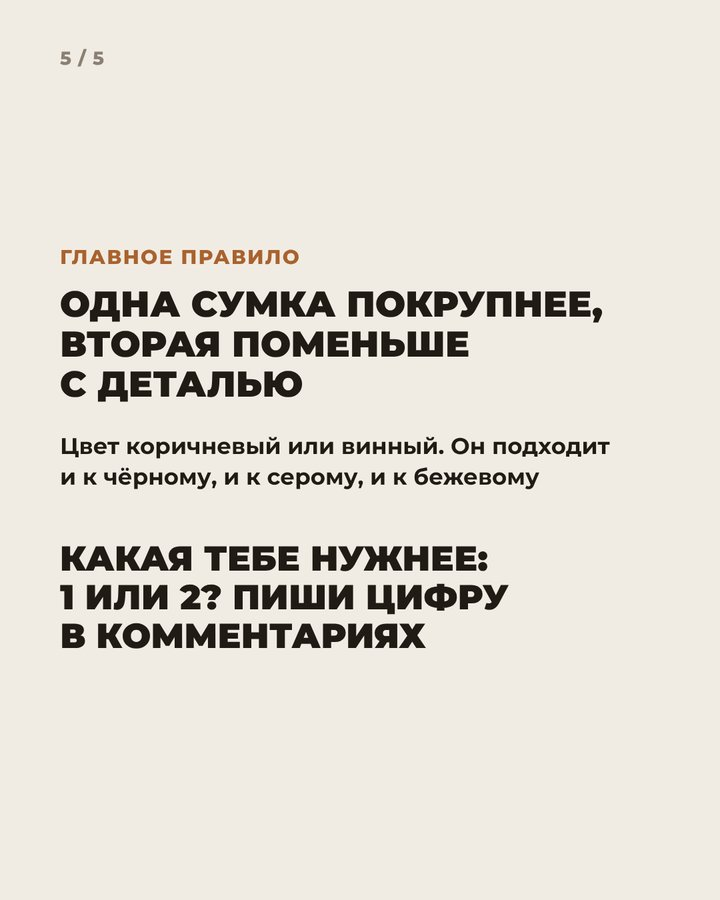
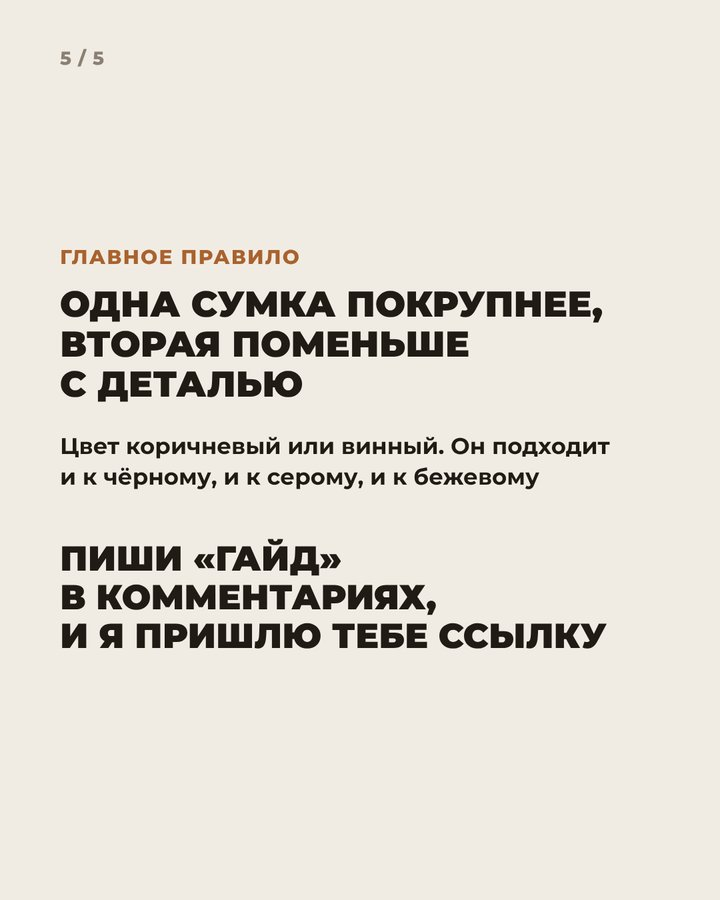
Carousel 11.11 bags: GUIDE call to action
Claude-Session: https://claude.ai/code/session_01WfDMDWpCzhvXCNpiNoLDnf

Changed region(s): [[0.0611, 0.5911, 0.8556, 0.7467]]

diff --git a/karusel-dve-sumki/index.html b/karusel-dve-sumki/index.html
@@ -89,7 +89,7 @@ header{display:grid;gap:10px}
         <img src="s/02.jpg" alt="Сумка 1: покрупнее — Befree, Love Republic, Sela">
         <img src="s/03.jpg" alt="Сумка 2: поменьше и с деталью — LIME, LIME, Love Republic">
         <img src="s/04.jpg" alt="С сапогами, с ярким жакетом, с туфлями">
-        <img src="s/05.jpg" alt="Правило и вопрос «Какая тебе нужнее: 1 или 2?»">
+        <img src="s/05.jpg" alt="Правило и призыв «Пиши ГАЙД»">
       </div>
       <button class="nav prev" id="prev" aria-label="Предыдущий слайд">‹</button>
       <button class="nav next" id="next" aria-label="Следующий слайд">›</button>
@@ -103,7 +103,7 @@ header{display:grid;gap:10px}
       <p>Цвет коричневый или винный. Он подходит и к чёрному, и к серому, и к бежевому, поэтому сумки работают почти с любым образом.</p>
       <p>Сумка 1, покрупнее:<br>Тоут с замком — Befree, 4 599 ₽<br>Большая хобо из замши — Love Republic, 10 999 ₽<br>Сумка с замшевой фактурой — Sela, 4 599 ₽</p>
       <p>Сумка 2, поменьше с деталью:<br>Полумесяц с металлической ручкой — LIME, 7 999 ₽<br>Мини-полумесяц из замши — LIME, 12 999 ₽<br>Сумка-цилиндр с кантом — Love Republic, 3 899 ₽</p>
-      <p>Какая тебе нужнее: 1 или 2? Пиши цифру в комментариях.</p>
+      <p>Пиши «ГАЙД» в комментариях, и я пришлю тебе ссылку 🤍</p>
       <p>Фото: сайты магазинов. Цены на 9.11.</p>
       <p>#сумка #базовыйгардероб #стильзимой #капсула #стилист</p>
     </div>
@@ -147,7 +147,7 @@ header{display:grid;gap:10px}
 <span class="n">05</span>
 <img src="s/05.jpg" alt="" data-i="4">
 <div class="t">
-<span>Правило и вопрос «Какая тебе нужнее: 1 или 2?»</span>
+<span>Правило и призыв «Пиши ГАЙД»</span>
 <span class="src">Цвет коричневый или винный подходит к чёрному, серому, бежевому</span>
 </div>
 </li>
